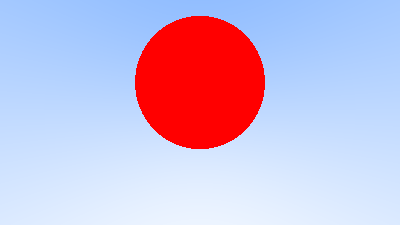
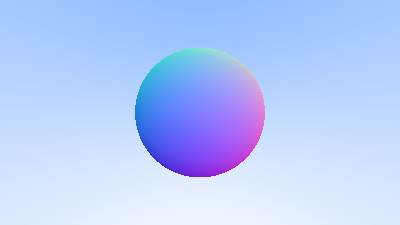
First implementation of surface-normal shading

Changed region(s): [[0.33, 0.0622, 0.66, 0.8089]]

diff --git a/ray_trace_main.py b/ray_trace_main.py
@@ -21,7 +21,7 @@ class ray:
     # return coordinates at step "t" from origin
 
     def at(self,t):
-        return self.origin.e + t*self.direction.e
+        return vec3(self.origin.e + t*self.direction.e)
 
 # create the example using Vec3 operations
 '''
@@ -61,15 +61,25 @@ def hit_sphere(center,radius,r):
 
     disc = b*b - 4*a*c
 
-    return disc >= 0
+    # Return the "t" point at which the ray hits the sphere (only positive for now)
+
+    if disc < 0:
+        return -1.0
+
+    else:
+        return (-b - np.sqrt(disc))/(2*a)
 
 
 # Function for ray color (gradient background):
 
 def ray_color(ray):
 
-    if (hit_sphere(point3([0,0,-1]),0.5,ray)):
-        return color([1,0,0])
+    # specify the "t" or spatial unit at which the ray hits the sphere
+
+    t = hit_sphere(point3([0,0,-1]),0.5,r)
+    if (t > 0.0):
+        N = (ray.at(t) - vec3([0,0,-1])).unit_vector()
+        return 0.5*color([N.x+1,N.y+1,N.z+1])
 
     unit_direction = (ray.direction).unit_vector()
 
